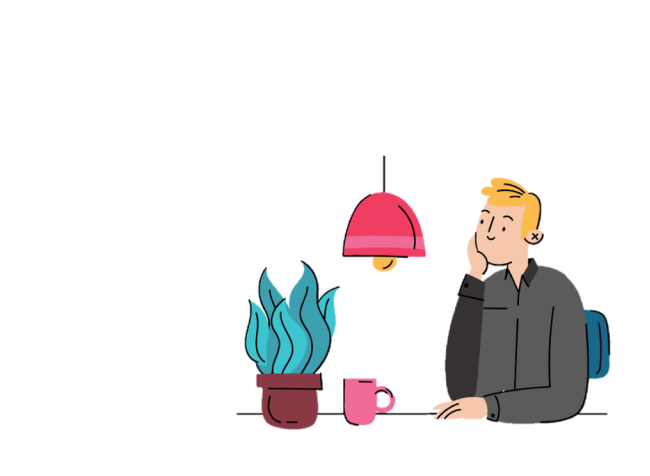
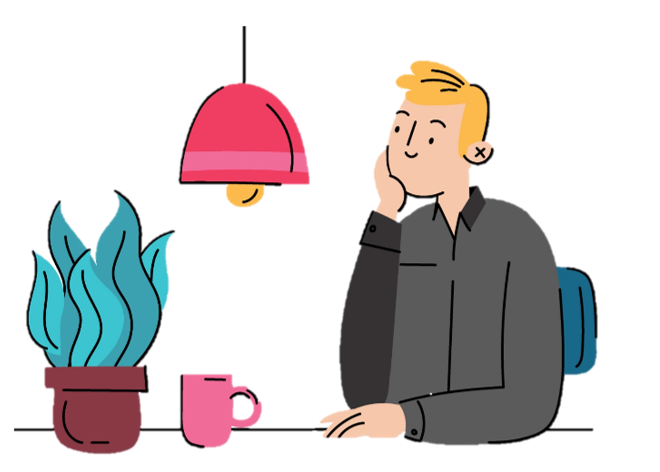
230604 index 이미지 추가

diff --git a/src/main/resources/templates/index.html b/src/main/resources/templates/index.html
@@ -11,10 +11,15 @@
     <div layout:fragment="content" class="content">
         <div layout:fragment="header" class="header">
             <img th:src="@{image/toco.png}" class="logo">
-            <span class="pointer" onclick="func_move('login')">LOGIN</span>
-            <span class="pointer">MYPAGE</span>
-            <span>다시 만나서 반가워요 :)</span>
-            <span>Hello Rosie!</span>
+
+            <span class="pointer right">MYPAGE</span>
+            <span class="pointer right" onclick="func_move('login')">LOGIN</span>
+
+            <div id="greetings">
+                <span>다시 만나서 반가워요 :)</span><br>
+                <span class="bold">Hello Rose!</span>
+            </div>
+            <img id="header-background" th:src="@{image/header-background.png}">
         </div>
         <div>
             <select>

diff --git a/src/main/resources/static/css/index.css b/src/main/resources/static/css/index.css
@@ -17,7 +17,11 @@ body{
     font-weight: bold;
     color: #965ca5;
 }
-/* 로그인 창 */
+#header-background{
+    float: right;
+    width: 60%;
+    margin-bottom: 50px;
+}
 .content{
     background-color: white;
     font-size: 1vw;
@@ -28,4 +32,8 @@ body{
     border-radius: 2%;
     box-shadow: 2px 2px 2px 2px #d25726;
     text-align: center;
+}
+#greetings{
+    float: left;
+    margin-top: 30px;
 }

diff --git a/src/main/resources/static/css/common.css b/src/main/resources/static/css/common.css
@@ -18,7 +18,7 @@
 }
 
 /* header */
-.header{
-    background-image: url("");
+.header {
+
 }
 
